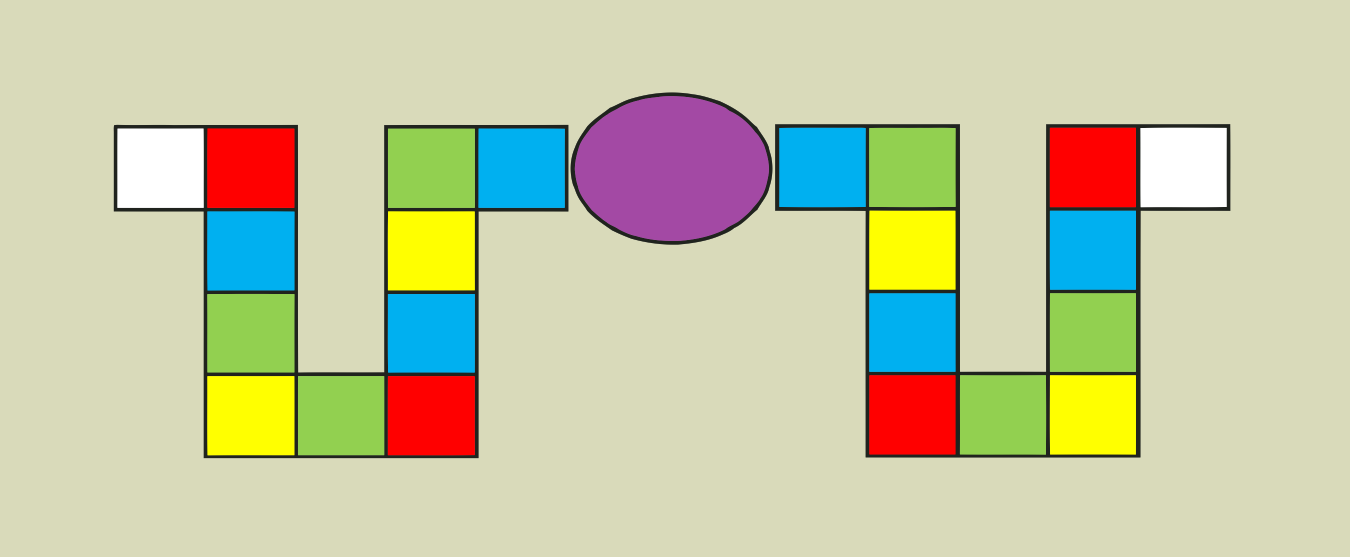
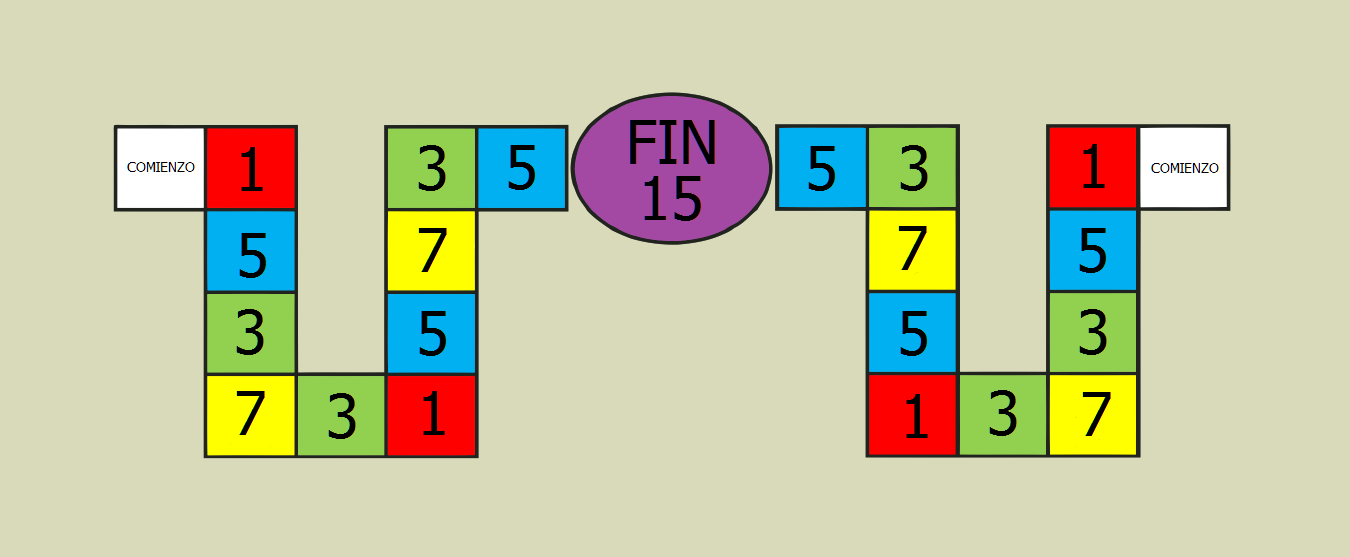
puntuacion casillas

diff --git a/Proyecto/src/LN/GestorCasillas.java b/Proyecto/src/LN/GestorCasillas.java
@@ -18,16 +18,16 @@ public class GestorCasillas {
 		ListaCasillas1= new ArrayList<Casilla>();
 		
 		Casilla casilla1= new Casilla(210, 130, "rojo", 1);
-		Casilla casilla2 = new Casilla(210, 210, "azul", 1);
-		Casilla casilla3 = new Casilla(210, 295, "verde", 1);
-		Casilla casilla4 = new Casilla(210, 375, "amarilo", 1);
-		Casilla casilla5 = new Casilla(300, 375, "verde", 1);
+		Casilla casilla2 = new Casilla(210, 210, "azul", 5);
+		Casilla casilla3 = new Casilla(210, 295, "verde", 3);
+		Casilla casilla4 = new Casilla(210, 375, "amarilo", 7);
+		Casilla casilla5 = new Casilla(300, 375, "verde", 3);
 		Casilla casilla6 = new Casilla(390, 375, "rojo", 1);
-		Casilla casilla7 = new Casilla(390, 295, "azul", 1);
-		Casilla casilla8 = new Casilla(390, 210, "amarillo", 1);
-		Casilla casilla9 = new Casilla(390, 130, "verde", 1);
-		Casilla casilla10 = new Casilla(480, 130, "azul", 1);
-		Casilla casilla11 = new Casilla(635, 130, "morado", 10);
+		Casilla casilla7 = new Casilla(390, 295, "azul", 5);
+		Casilla casilla8 = new Casilla(390, 210, "amarillo", 7);
+		Casilla casilla9 = new Casilla(390, 130, "verde", 3);
+		Casilla casilla10 = new Casilla(480, 130, "azul", 5);
+		Casilla casilla11 = new Casilla(635, 130, "morado", 15);
 			
 		
 		//hau ez da beharrezkoa, pruebak iteko da. HASIERA
